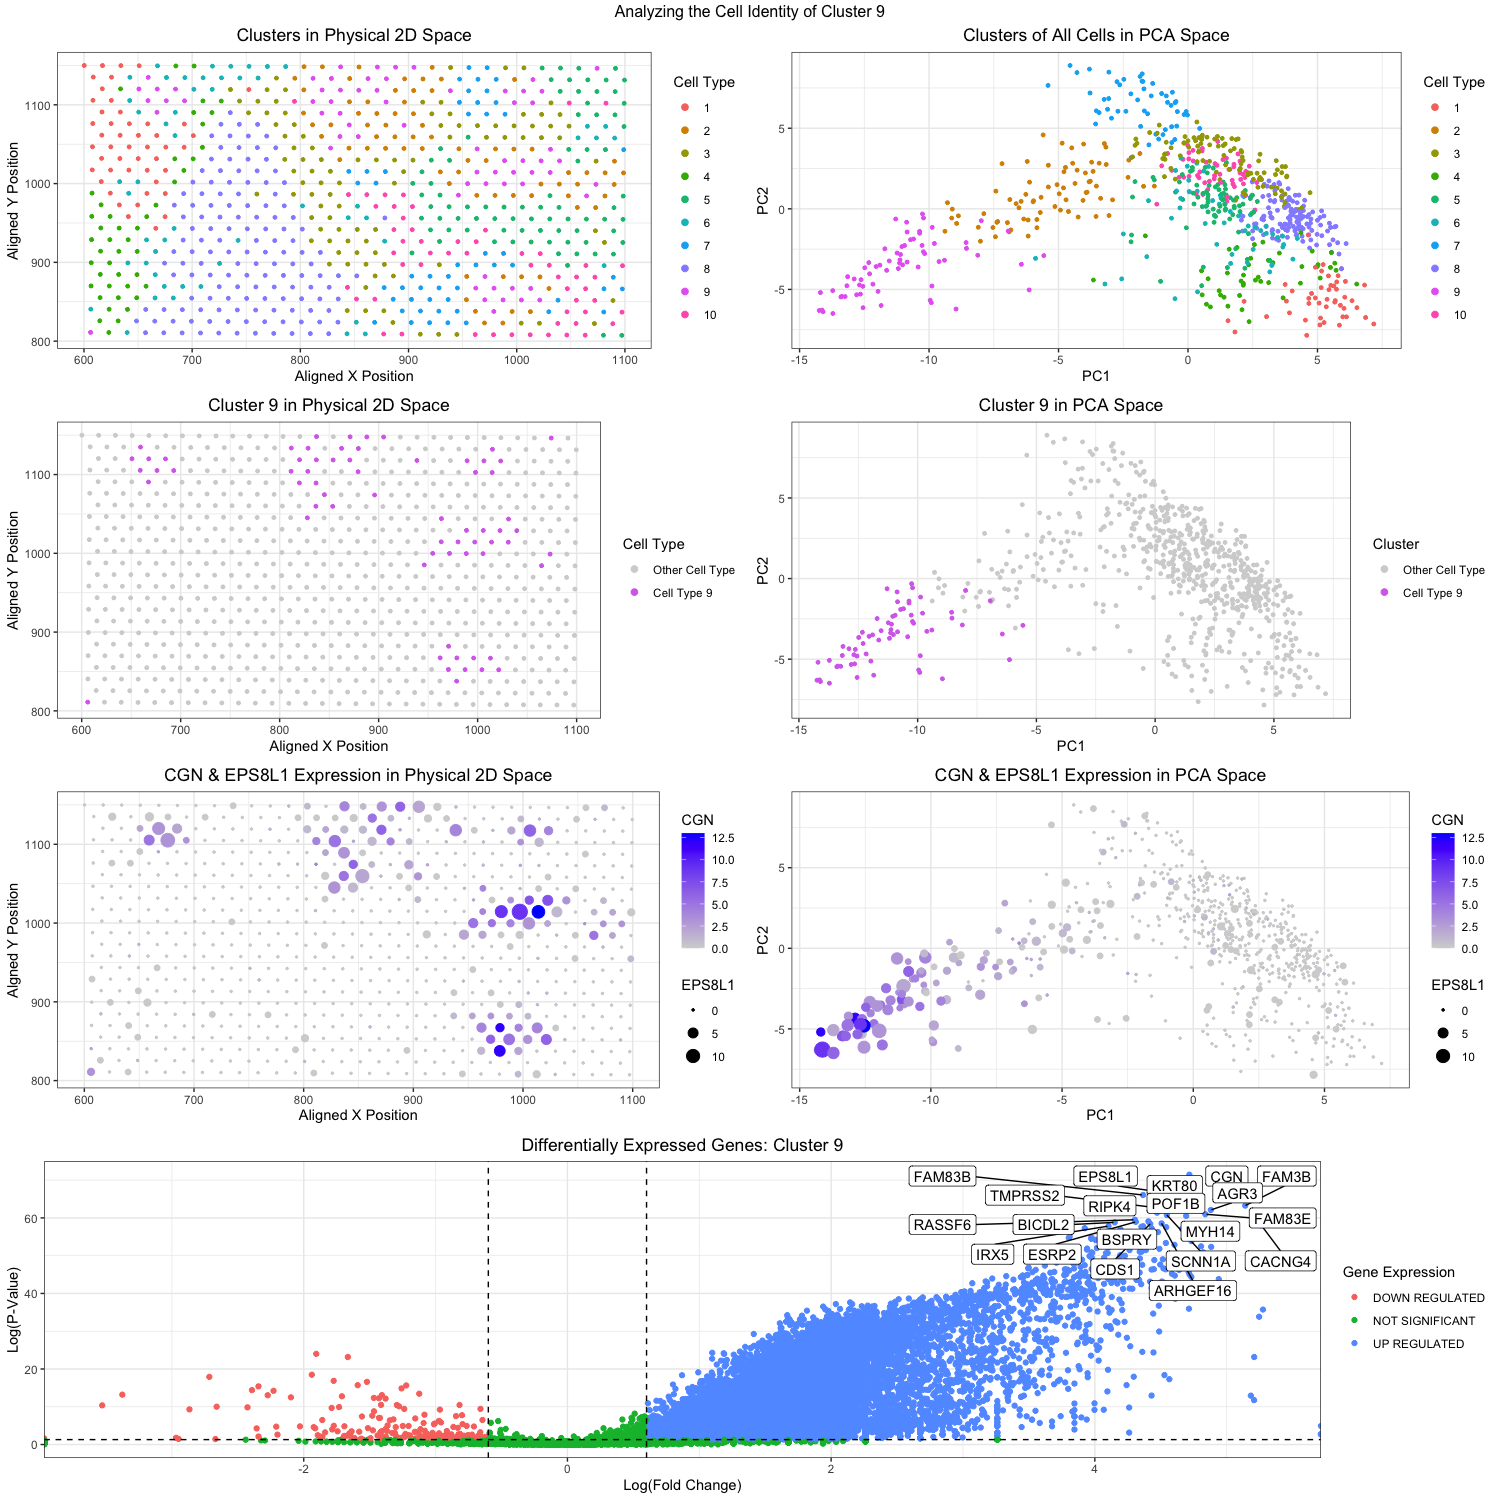
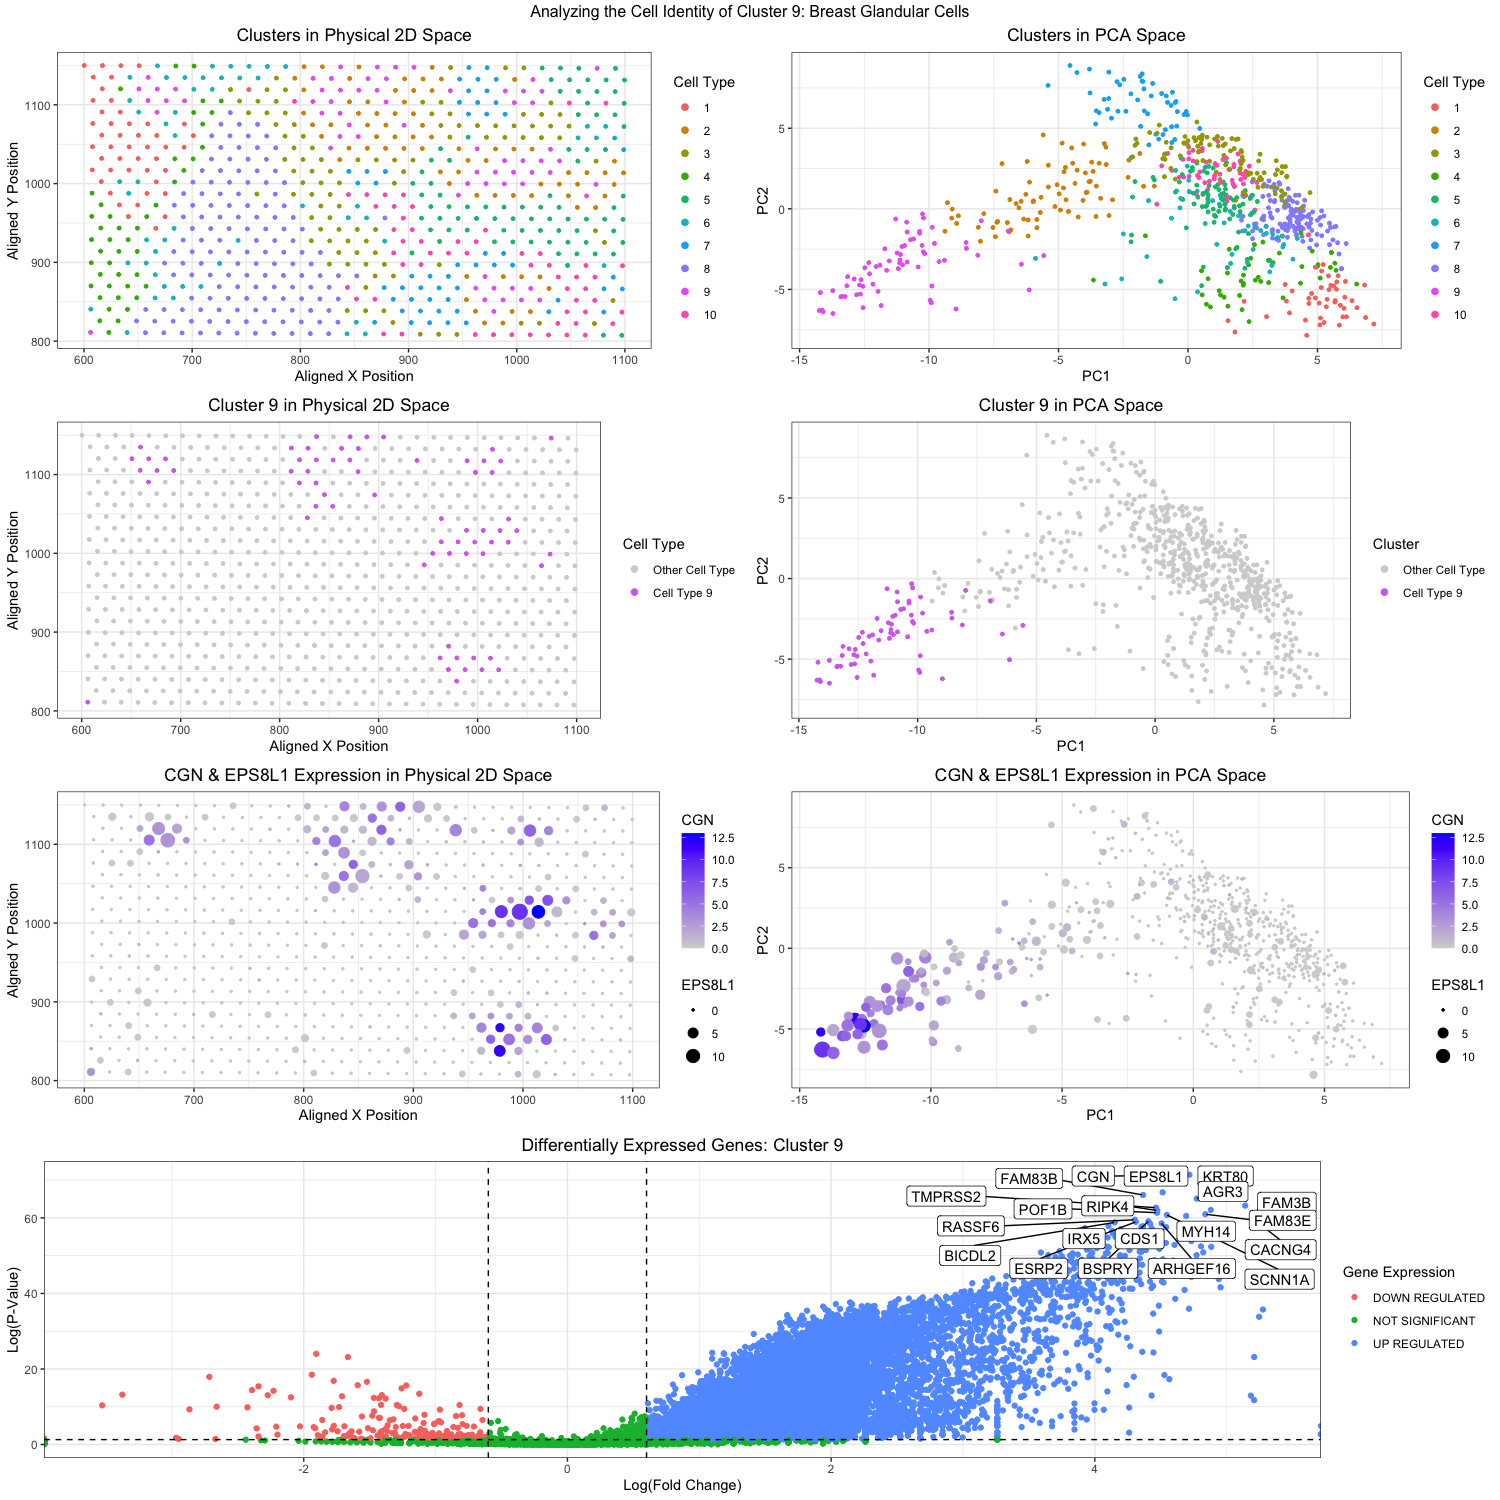
Changed text

Changed region(s): [[0.6133, 0.7667, 0.8893, 0.8893], [0.368, 0.0, 0.7973, 0.0307]]

diff --git a/_posts/2024-02-14-jwang428.md b/_posts/2024-02-14-jwang428.md
@@ -119,7 +119,7 @@ clusters_PCA <- ggplot(data = df_cluster, aes(x = PC1, y = PC2, col = cell_type)
   theme_bw() + 
   theme(plot.title = element_text(hjust = 0.5)) +
   guides(color = guide_legend(override.aes = list(size = 2))) +
-  labs(title = 'Clusters of All Cells in PCA Space', col = "Cell Type")
+  labs(title = 'Clusters in PCA Space', col = "Cell Type")
 
 clusters_PCA
 
@@ -233,11 +233,12 @@ grid.arrange(clusters_2D, clusters_PCA,
              gene_2d, gene_pca,
              volcano_plot,
              layout_matrix = lay,
-             top = "Analyzing the Cell Identity of Cluster 9")
+             top = "Analyzing the Cell Identity of Cluster 9: Breast Glandular Cells")
 
 ## References:
 ## (1) To determine the optimal number of clusters
 ## https://medium.com/@chyun55555/how-to-find-the-optimal-number-of-clusters-with-r-dbf84988388b 
 ## (2) Graphing volcano plots
 ## https://biocorecrg.github.io/CRG_RIntroduction/volcano-plots.html
+
 ```
